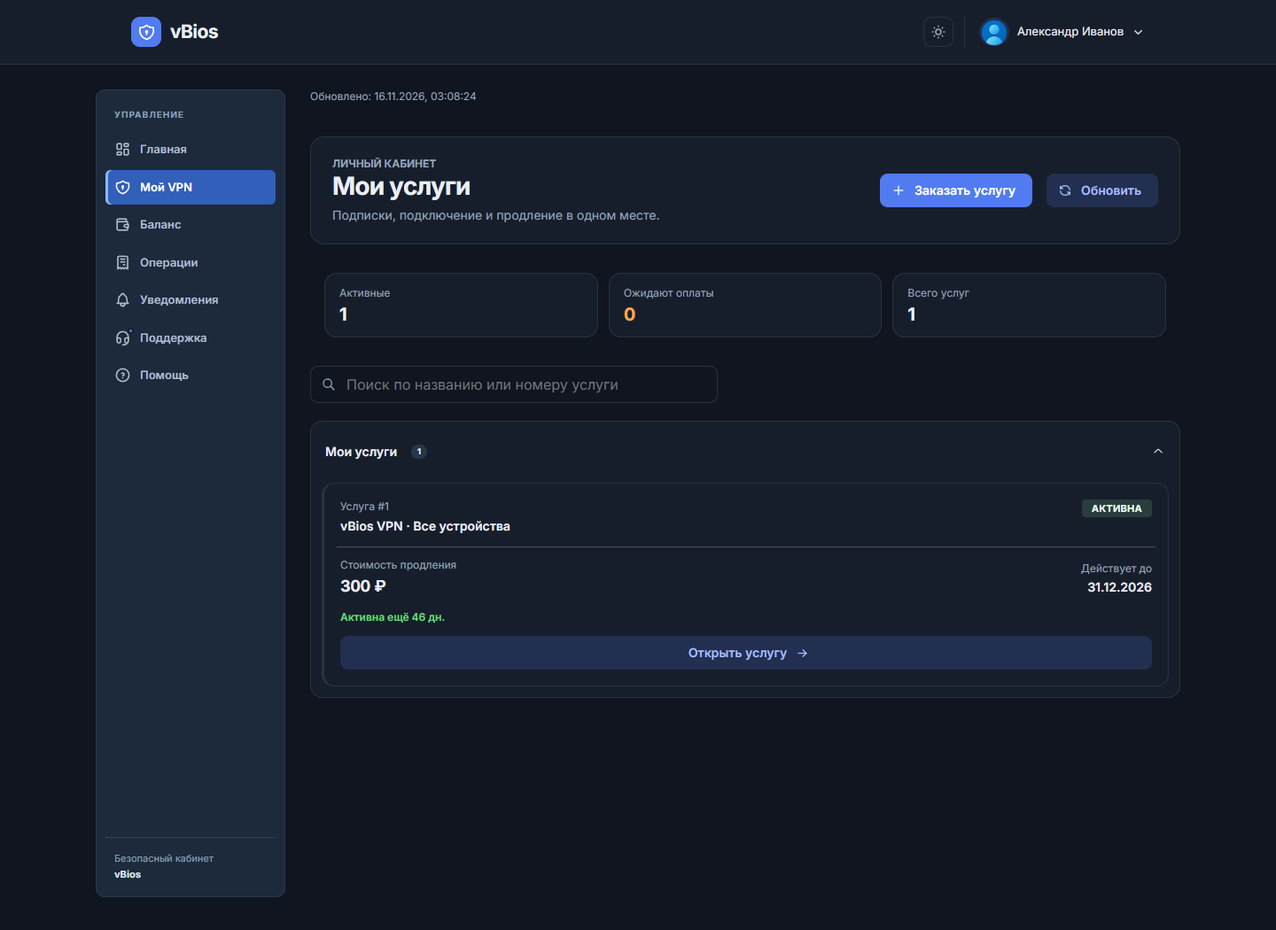
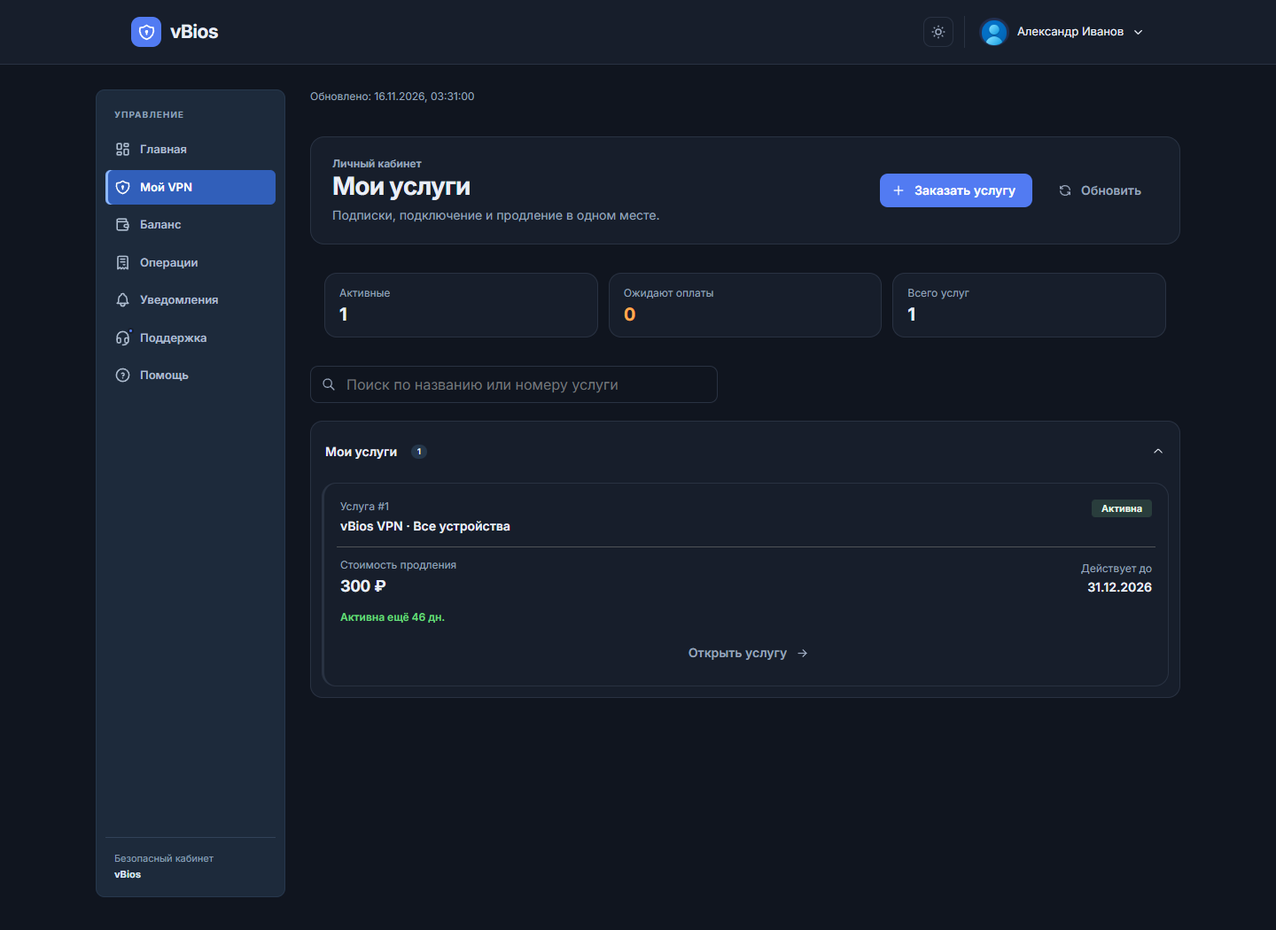
Улучшить визуальную систему кабинета

diff --git a/client/src/pages/Services.tsx b/client/src/pages/Services.tsx
@@ -1,7 +1,7 @@
 import DataLoadStatus from '../components/DataLoadStatus';
 import { useState, useEffect, useRef } from 'react';
 import { useNavigate, useParams, Link } from 'react-router-dom';
-import { Card, Timeline, Text, Stack, Group, Badge, Button, Divider, ActionIcon, Loader, Center, Paper, Title, Code, Tooltip, Accordion, Box, Pagination, Alert, TextInput, Skeleton } from '@mantine/core';
+import { Card, Timeline, Text, Stack, Group, Badge, Button, Divider, ActionIcon, Loader, Center, Paper, Title, Menu, Code, Tooltip, Accordion, Box, Pagination, Alert, TextInput, Skeleton } from '@mantine/core';
 import { IconQrcode, IconCopy, IconCheck, IconDownload, IconRefresh, IconTrash, IconPlus, IconPlayerStop, IconExchange, IconWallet, IconDeviceMobileCog, IconArrowLeft, IconArrowRight, IconSearch, IconCalendarTime, IconWifi, IconWifiOff } from '@tabler/icons-react';
 import { useDisclosure, useClipboard } from '@mantine/hooks';
 import { useTranslation } from 'react-i18next';
@@ -339,7 +339,6 @@ function ServiceDetail({ service, onDelete, onChangeTariff }: ServiceDetailProps
       setConnectionStatus('loading');
       setSubscriptionUrl(null);
       setStorageData(null);
-      setActiveTab('config');
       const offlineConnection = readOfflineConnection(service.user_service_id, category);
       if (!navigator.onLine && offlineConnection) {
         if (category === 'proxy') setSubscriptionUrl(offlineConnection.value); else setStorageData(offlineConnection.value);
@@ -410,11 +409,11 @@ function ServiceDetail({ service, onDelete, onChangeTariff }: ServiceDetailProps
         <section>
 
           <Stack gap="xs">
-            <Paper withBorder radius="lg" p="lg">
+            <Paper withBorder radius="lg" p="lg" className="service-primary-card">
               <Stack gap="md">
                 <Group justify="space-between" gap="md">
-                  <Text size="sm" c="dimmed">{t('services.status')}</Text>
-                  <Badge color={statusColor} variant="light" size="lg" radius="sm">{statusLabel}</Badge>
+                  <Text fw={650} size="xl">{service.service.name}</Text>
+                  <Badge color={statusColor} variant="light" size="sm" radius="sm">{statusLabel}</Badge>
                 </Group>
                 <Divider />
                 <Group justify="space-between" gap="md" align="center">
@@ -490,7 +489,7 @@ function ServiceDetail({ service, onDelete, onChangeTariff }: ServiceDetailProps
 
                 {isProxy && showProxySubscription && subscriptionUrl && (
                   <Paper withBorder p="sm" radius="sm" bg="var(--mantine-color-default-hover)">
-                    <Text size="xs" fw={700} tt="uppercase" c="dimmed" mb={6}>{t('services.subscriptionLink')}</Text>
+                    <Text size="xs" fw={700} tt="none" c="dimmed" mb={6}>{t('services.subscriptionLink')}</Text>
                     <Group wrap="nowrap">
                       <Code style={{ flex: 1, wordBreak: 'break-all', whiteSpace: 'normal' }}>{subscriptionUrl}</Code>
                       <Tooltip label={clipboard.copied ? t('common.copied') : t('common.copy')}>
@@ -555,44 +554,11 @@ function ServiceDetail({ service, onDelete, onChangeTariff }: ServiceDetailProps
 
       {isNotPaid && <Text size="sm" c="dimmed">{forecastLoading ? 'Рассчитываем доплату…' : forecastTotal !== null ? 'Доплата по услуге: ' + forecastTotal.toFixed(2) + ' ₽' : 'Доплата пока неизвестна. Проверьте расчёт перед оплатой.'}</Text>}
 
-      {canChange && (
-        <Button
-          color="blue"
-          variant="light"
-          leftSection={<IconExchange size={16} />}
-          onClick={() => onChangeTariff?.(service)}
-          mt="md"
-          fullWidth
-        >
-          {t('services.changeService')}
-        </Button>
-      )}
-
-      {canStop && (
-        <Button
-          color="orange"
-          variant="light"
-          leftSection={<IconPlayerStop size={16} />}
-          onClick={() => setConfirmStop(true)}
-          mt="md"
-          fullWidth
-        >
-          {t('services.stopService')}
-        </Button>
-      )}
-
-      {canDelete && (
-        <Button
-          color="red"
-          variant="light"
-          leftSection={<IconTrash size={16} />}
-          onClick={() => setConfirmDelete(true)}
-          mt="md"
-          fullWidth
-        >
-          {t('services.deleteService')}
-        </Button>
-      )}
+      {(canChange || canStop || canDelete) && <Menu position="bottom-end" withinPortal><Menu.Target><Button variant="default" style={{alignSelf:'flex-end'}}>Ещё ···</Button></Menu.Target><Menu.Dropdown>
+        {canChange && <Menu.Item leftSection={<IconExchange size={16}/>} onClick={() => onChangeTariff?.(service)}>{t('services.changeService')}</Menu.Item>}
+        {canStop && <Menu.Item leftSection={<IconPlayerStop size={16}/>} onClick={() => setConfirmStop(true)}>{t('services.stopService')}</Menu.Item>}
+        {canDelete && <Menu.Item color="red" leftSection={<IconTrash size={16}/>} onClick={() => setConfirmDelete(true)}>{t('services.deleteService')}</Menu.Item>}
+      </Menu.Dropdown></Menu>}
 
       <ConfirmModal
         opened={confirmStop}
@@ -899,16 +865,14 @@ export default function Services() {
 
   if (serviceId) {
     if (!detailService) return <Stack className="service-detail-page" gap="md"><Button component={Link} to="/services" variant="subtle" leftSection={<IconArrowLeft size={16} />}>Все услуги</Button><Paper withBorder p="xl" radius="lg"><Title order={3}>Услуга не найдена</Title><Text c="dimmed" mt="xs">Обновите список услуг и попробуйте ещё раз.</Text><Button mt="md" onClick={() => void fetchServices()}>Обновить список</Button></Paper></Stack>;
-    const statusLabel = t(`status.${detailService.status}`, detailService.status);
-    const expiry = getExpiryState(detailService.expire);
-    return <Stack gap="lg" className="service-detail-page"><Button component={Link} to="/services" variant="subtle" className="service-detail-page__back" leftSection={<IconArrowLeft size={16} />}>Все услуги</Button><Paper withBorder radius="lg" p="xl" className="service-detail-page__summary" style={{ borderRadius: 20, borderTop: '3px solid var(--mantine-primary-color-filled)', background: 'var(--mantine-color-body)' }}><Group justify="space-between" align="flex-start"><div><Text c="dimmed" size="xs">Услуга #{detailService.user_service_id}</Text><Title order={2} mt={6} style={{ fontSize: 'clamp(1rem, 2.5vw, 1.25rem)', lineHeight: 1.3, overflowWrap: 'anywhere' }}>{detailService.service.name}</Title><Text c="dimmed" size="sm" mt={6}>Подключение, срок действия и настройки подписки.</Text></div><Stack gap="xs" align="flex-end"><Badge color={statusColors[detailService.status] || 'gray'} size="lg" variant="light">{statusLabel}</Badge>{expiry.label && <Text className={`expiry-indicator expiry-indicator--${expiry.tone}`}><IconCalendarTime size={15} />{expiry.label}</Text>}</Stack></Group></Paper><ServiceDetail service={detailService} onDelete={() => { void fetchServices(); navigate('/services'); }} onChangeTariff={handleChangeTariff} /></Stack>;
+    return <Stack gap="md" className="service-detail-page"><Button component={Link} to="/services" variant="subtle" className="service-detail-page__back" leftSection={<IconArrowLeft size={16} />}>Все услуги</Button><ServiceDetail service={detailService} onDelete={() => { void fetchServices(); navigate('/services'); }} onChangeTariff={handleChangeTariff} /></Stack>;
   }
 
   return (
     <Stack gap="lg" className="services-overview">
       <DataLoadStatus showRefresh={false} loading={refreshing} error={loadError && "Не удалось обновить услуги"} updatedAt={updatedAt} onRetry={() => void fetchServices()} />
       <Paper withBorder radius="lg" className="services-header-card">
-        <div className="services-header-card__copy"><Text size="xs" c="dimmed" tt="uppercase" fw={700}>Личный кабинет</Text><Title className="page-header__title" order={2}>{t('services.title')}</Title><Text c="dimmed" size="sm" mt={6}>Подписки, подключение и продление в одном месте.</Text></div>
+        <div className="services-header-card__copy"><Text size="xs" c="dimmed" tt="none" fw={700}>Личный кабинет</Text><Title className="page-header__title" order={2}>{t('services.title')}</Title><Text c="dimmed" size="sm" mt={6}>Подписки, подключение и продление в одном месте.</Text></div>
         <Group className="services-header-card__actions">
           <Button
             leftSection={<IconPlus size={16} />}

diff --git a/client/src/components/HwidDevices.tsx b/client/src/components/HwidDevices.tsx
@@ -1,6 +1,6 @@
 import { useCallback, useEffect, useId, useState } from 'react';
-import { Alert, Badge, Button, Group, Loader, Paper, Stack, Text, Progress } from '@mantine/core';
-import { IconDeviceMobile, IconRefresh, IconTrash, IconChevronDown, IconChevronUp } from '@tabler/icons-react';
+import { Alert, Badge, Button, Group, Loader, Paper, Stack, Text, Progress, Collapse, Skeleton } from '@mantine/core';
+import { IconDeviceMobile, IconDeviceLaptop, IconRefresh, IconTrash, IconChevronDown, IconChevronUp } from '@tabler/icons-react';
 import { notifications } from '@mantine/notifications';
 import { api, userApi } from '../api/client';
 import ConfirmModal from './ConfirmModal';
@@ -9,6 +9,7 @@ import './HwidDevices.css';
 type Device = { hwid: string; deviceModel?: string; platform?: string; osVersion?: string; userAgent?: string; lastConnectedAt?: string; lastSeenAt?: string; createdAt?: string };
 type Stats = { used_bytes?: number | null; lifetime_bytes?: number | null; limit_bytes?: number | null; online_at?: string | null; first_connected_at?: string | null; last_subscription_at?: string | null };
 const when = (value?: string | null) => value && Number.isFinite(Date.parse(value)) ? new Date(value).toLocaleString() : 'Нет данных';
+const deviceIcon = (platform?: string) => /windows|mac|linux|desktop/i.test(platform || '') ? <IconDeviceLaptop size={16} /> : <IconDeviceMobile size={16} />;
 const bytes = (value?: number | null) => value != null && Number.isFinite(Number(value)) ? `${(Number(value) / 1073741824).toLocaleString('ru-RU', { maximumFractionDigits: 2 })} ГБ` : 'Нет данных';
 function payload(body: unknown): Record<string, unknown> {
   let value: any = body;
@@ -81,9 +82,10 @@ export default function HwidDevices({ serviceId }: { serviceId: number }) {
     finally { setDeleting(false); }
   };
   return <Paper withBorder p="md" radius="md" className="hwid-panel">
-    <Group className="hwid-panel-header" justify="space-between" wrap="wrap" gap="sm"><div><Group gap="xs"><IconDeviceMobile size={22} /><Text component="h2" className="hwid-panel-title" fw={650}>Центр устройств</Text></Group><Text size="sm" c="dimmed" mt={6}>Просматривайте подключённые устройства и расход трафика. Чтобы освободить место для нового устройства, сбросьте его HWID-привязку.</Text></div><Group gap="xs"><Button size="xs" variant="light" aria-expanded={expanded} aria-controls={expanded ? detailsId : undefined} onClick={() => setExpanded(value => !value)} leftSection={expanded ? <IconChevronUp size={15} /> : <IconChevronDown size={15} />}>{expanded ? 'Свернуть' : 'Раскрыть'}</Button><Button size="xs" variant="subtle" loading={loading || statsLoading} disabled={deleting} onClick={load} leftSection={<IconRefresh size={15} />}>Обновить</Button></Group></Group>
-    {!expanded ? <Group mt="md" gap="xs"><Badge variant="light">{loading ? "Устройства загружаются…" : error ? "Не удалось обновить устройства" : `Подключено: ${devices.length}${limit !== null && limit > 0 ? ` · лимит ${limit}` : ""}`}</Badge><Text size="xs" c="dimmed">Нажмите «Раскрыть», чтобы посмотреть устройства и статистику.</Text></Group> : <div id={detailsId}>
-    {statsLoading && !stats ? <Text mt="sm" size="xs" c="dimmed">Загружаем статистику…</Text> : statsError && !stats ? <Alert mt="sm" color="orange">Статистика Remnawave недоступна. Список устройств загружается отдельно.</Alert> : stats && <>
+    <Group className="hwid-panel-header" justify="space-between" wrap="wrap" gap="sm"><div><Group gap="xs"><IconDeviceMobile size={22} /><Text component="h2" className="hwid-panel-title" fw={650}>Центр устройств</Text></Group><Text size="sm" c="dimmed" mt={6}>Устройства подписки и расход трафика.</Text></div><Group gap="xs"><Button size="xs" variant="light" aria-expanded={expanded} aria-controls={detailsId} onClick={() => setExpanded(value => !value)} leftSection={expanded ? <IconChevronUp size={15} /> : <IconChevronDown size={15} />}>{expanded ? 'Свернуть' : 'Раскрыть'}</Button><Button size="xs" variant="subtle" loading={loading || statsLoading} disabled={deleting} onClick={load} leftSection={<IconRefresh size={15} />}>Обновить</Button></Group></Group>
+    {!expanded ? <Group mt="md" gap="sm" wrap="wrap"><Badge variant="light">{loading ? 'Загружаем устройства…' : error ? 'Не удалось обновить' : `${devices.length} из ${limit && limit > 0 ? limit : '∞'} устройств`}</Badge><Group gap={4}>{devices.slice(0, 4).map((device, index) => <span className="hwid-platform-icon" title={device.platform || `Устройство ${index + 1}`} key={device.hwid}>{deviceIcon(device.platform)}</span>)}</Group><Text size="xs" c="dimmed">Раскройте, чтобы управлять устройствами</Text></Group> : null}
+    <Collapse in={expanded}><div id={detailsId}>
+    {statsLoading && !stats ? <Stack gap="sm" mt="md" aria-label="Загрузка статистики"><Skeleton height={60} radius="md"/><Skeleton height={16} width="65%"/></Stack> : statsError && !stats ? <Alert mt="sm" color="orange">Статистика Remnawave недоступна. Список устройств загружается отдельно.</Alert> : stats && <>
       <div className="hwid-stats">
         <div><Text size="xs" c="dimmed">Трафик за текущий период</Text><Text fw={600}>{bytes(stats.used_bytes)}</Text></div>
         <div><Text size="xs" c="dimmed">Лимит трафика</Text><Text fw={600}>{stats.limit_bytes === 0 ? 'Без ограничений' : bytes(stats.limit_bytes)}</Text></div>
@@ -105,7 +107,7 @@ export default function HwidDevices({ serviceId }: { serviceId: number }) {
         <Button className="hwid-device-remove" color="red" variant="light" size="xs" disabled={deleting} onClick={() => setSelected(device)} leftSection={<IconTrash size={15} />}>Сбросить HWID</Button>
       </div>)}
     </Stack>
-    </div>}
+    </div></Collapse>
     <ConfirmModal opened={!!selected} onClose={() => { if (!deleting) setSelected(null); }} onConfirm={remove} title="Сбросить привязку устройства?" message={`Устройство «${selected?.deviceModel || selected?.platform || 'Устройство'}» будет удалено из списка. Остальные устройства останутся. Это не блокировка: при новом подключении устройство может привязаться снова.`} confirmLabel="Сбросить HWID" confirmColor="red" loading={deleting} />
   </Paper>;
 }

diff --git a/client/src/components/VpnCabinet.css b/client/src/components/VpnCabinet.css
@@ -91,3 +91,53 @@
 @media(prefers-reduced-motion:reduce){
   .vpn-cabinet *, .vpn-cabinet *::before, .vpn-cabinet *::after { animation-duration:.01ms!important; animation-iteration-count:1!important; transition-duration:.01ms!important; scroll-behavior:auto!important; }
 }
+/* Visual system v2: one surface, one radius, one hierarchy. */
+:root {
+  --cabinet-card-radius: 16px;
+  --cabinet-card-padding: 20px;
+  --cabinet-heading: clamp(1.05rem, 1.8vw, 1.35rem);
+  --cabinet-muted: #8f9bb0;
+}
+.vpn-cabinet :is(.service-overview-card, .service-detail-page__summary, .service-connection-card, .hwid-panel, .profile-card, .vpn-finance-panel, .ticket-list-panel, .ticket-chat-panel) {
+  border-radius: var(--cabinet-card-radius) !important;
+  box-shadow: none !important;
+}
+.vpn-cabinet :is(.service-overview-card, .service-detail-page__summary, .service-connection-card, .hwid-panel, .profile-card, .vpn-finance-panel) { padding: var(--cabinet-card-padding); }
+.vpn-cabinet :is(.service-overview-card, .service-detail-page__summary) .mantine-Title-root,
+.vpn-cabinet .hwid-panel-title { font-size: var(--cabinet-heading); letter-spacing: -.02em; }
+.vpn-cabinet .service-overview-card { transition: border-color .18s ease, background-color .18s ease, transform .18s ease; }
+.vpn-cabinet .service-overview-card:hover { transform: translateY(-1px); }
+.vpn-cabinet .service-detail-page__summary { border-top: 2px solid var(--ui-accent) !important; }
+.vpn-cabinet .service-technical-details { border-color: var(--ui-border); background: transparent; transition: background-color .2s ease; }
+.vpn-cabinet .service-technical-details[open] { background: var(--ui-surface-soft); }
+.vpn-cabinet .service-technical-details > summary { color: var(--ui-text); font-size: .875rem; }
+.vpn-cabinet .service-technical-details > summary::marker { color: var(--ui-muted); }
+.vpn-cabinet .hwid-panel { animation: cabinet-card-in .25s ease both; }
+.vpn-cabinet .hwid-panel > .hwid-panel-header { border-bottom: 0; padding-bottom: 10px; }
+.vpn-cabinet .hwid-panel > .hwid-panel-header > div > .mantine-Text-root:last-child { color: var(--cabinet-muted); max-width: 650px; line-height: 1.45; }
+.vpn-cabinet .hwid-panel .hwid-stats { border: 1px solid var(--ui-border); background: var(--ui-surface-soft); }
+.vpn-cabinet .hwid-panel .hwid-device { border-color: var(--ui-border); transition: border-color .18s ease, transform .18s ease; }
+.vpn-cabinet .hwid-panel .hwid-device:hover { border-color: var(--ui-border-strong); transform: translateY(-1px); }
+.vpn-cabinet .hwid-panel .hwid-device-icon { color: var(--ui-muted); }
+.vpn-cabinet .hwid-panel .hwid-device-remove { color: var(--ui-muted); background: var(--ui-surface-soft); }
+.vpn-cabinet .hwid-panel .hwid-device-remove:hover { color: var(--mantine-color-red-6); }
+.vpn-cabinet .ticket-conversation__header { border-bottom: 1px solid var(--ui-border); padding-bottom: 16px; }
+.vpn-cabinet .ticket-operator-row { border: 1px solid var(--ui-border); background: var(--ui-surface-soft); color: var(--ui-text); }
+.vpn-cabinet .ticket-operator-row .mantine-Button-root { background: var(--ui-surface); color: var(--ui-text); border: 1px solid var(--ui-border); }
+.vpn-cabinet .ticket-message { animation: cabinet-message-in .2s ease both; }
+.vpn-cabinet .ticket-message--user { background: color-mix(in srgb, var(--ui-accent) 12%, var(--ui-surface)) !important; border-color: color-mix(in srgb, var(--ui-accent) 25%, var(--ui-border)) !important; }
+.vpn-cabinet .ticket-message--admin { background: var(--ui-surface) !important; }
+.vpn-cabinet .ticket-reply-box { background: var(--ui-surface); border-radius: 0 0 var(--cabinet-card-radius) var(--cabinet-card-radius); }
+.vpn-cabinet .ticket-reply-box .mantine-Textarea-input { background: var(--ui-surface-soft); border-color: var(--ui-border); }
+.vpn-cabinet .ticket-pending-file { background: var(--ui-surface-soft); border-color: var(--ui-border); }
+.vpn-cabinet .hwid-panel .mantine-Badge-root[data-variant="light"] { background: var(--ui-surface-soft); color: var(--ui-text); border: 1px solid var(--ui-border); }
+.vpn-cabinet .mantine-Button-root[data-variant="light"], .vpn-cabinet .mantine-Button-root[data-variant="subtle"] { background: transparent; color: var(--ui-muted); }
+.vpn-cabinet .mantine-Button-root[data-variant="light"]:hover, .vpn-cabinet .mantine-Button-root[data-variant="subtle"]:hover { background: var(--ui-surface-soft); color: var(--ui-text); }
+@keyframes cabinet-card-in { from { opacity: .65; transform: translateY(4px); } to { opacity: 1; transform: translateY(0); } }
+@keyframes cabinet-message-in { from { opacity: 0; transform: translateY(4px); } to { opacity: 1; transform: translateY(0); } }
+@media (prefers-reduced-motion: reduce) { .vpn-cabinet *, .vpn-cabinet *::before { animation: none !important; transition: none !important; } }
+@media (max-width: 600px) {
+  .vpn-cabinet :is(.service-overview-card, .service-detail-page__summary, .service-connection-card, .hwid-panel, .profile-card, .vpn-finance-panel) { padding: 16px !important; }
+  .vpn-cabinet .service-detail-page__summary .mantine-Title-root { font-size: 1.25rem !important; }
+  .vpn-cabinet .hwid-panel > .hwid-panel-header > .mantine-Group-root { width: 100%; }
+}

diff --git a/client/src/components/HwidDevices.css b/client/src/components/HwidDevices.css
@@ -23,3 +23,17 @@
 .hwid-details{margin-top:8px}.hwid-details summary{cursor:pointer;font-size:12px;color:var(--mantine-primary-color-filled);padding:6px 0}.hwid-details summary:focus-visible{outline:2px solid var(--mantine-primary-color-filled)}
 .hwid-panel-header > .mantine-Group-root { flex: 0 0 auto; min-width: 0; }
 .service-detail-page .hwid-panel { margin-top: 16px; margin-bottom: 16px; }
+.hwid-platform-icon { display:inline-flex; align-items:center; justify-content:center; width:28px; height:28px; border:1px solid var(--ui-border); border-radius:8px; color:var(--ui-muted); background:var(--ui-surface-soft); }
+.hwid-panel .hwid-panel-header .mantine-Button-root[data-variant="light"] { color:var(--ui-text); border:1px solid var(--ui-border); }
+.vpn-cabinet .mantine-Badge-label { text-transform:none; letter-spacing:0; font-weight:600; }
+.vpn-cabinet .hwid-panel-header > .mantine-Group-root { flex:0 0 auto; }
+.vpn-cabinet .hwid-panel-header > .mantine-Group-root .mantine-Button-root { width:auto; }
+.vpn-cabinet .hwid-panel-header { gap:12px; }
+.vpn-cabinet .hwid-panel .hwid-panel-header > div > .mantine-Text-root:last-child { font-size:13px; }
+@media(max-width:600px){
+ .vpn-cabinet .hwid-panel-header > .mantine-Group-root { width:auto; display:flex; flex-direction:row; flex-wrap:nowrap; }
+ .vpn-cabinet .hwid-panel-header .mantine-Button-root { padding-inline:12px; min-height:40px; }
+ .vpn-cabinet .hwid-panel-header { gap:8px; }
+ .vpn-cabinet .hwid-panel-header > div { min-width:0; }
+ .vpn-cabinet .hwid-panel > .mantine-Group-root:nth-child(2) > .mantine-Text-root:last-child { display:none; }
+}

diff --git a/client/src/pages/Tickets.css b/client/src/pages/Tickets.css
@@ -122,3 +122,19 @@
   .ticket-create__actions > button:last-child { flex: 1; }
   .ticket-pending-files { grid-template-columns:1fr; }
 }
+/* A quieter, more spacious conversation. */
+.vpn-cabinet .ticket-conversation .mantine-ScrollArea-root { background:transparent; padding:16px 4px; }
+.vpn-cabinet .ticket-message { max-width:84%!important; padding:14px 16px!important; }
+.vpn-cabinet .ticket-operator-row { padding:8px 12px; }
+.vpn-cabinet .ticket-operator-row > .mantine-Text-root { font-weight:600; font-size:13px; }
+.vpn-cabinet .ticket-conversation__header .mantine-Button-root { color:var(--ui-muted); }
+.vpn-cabinet .ticket-media-thumb { max-width:240px; }
+.vpn-cabinet .ticket-media-thumb img { max-height:180px; object-fit:cover; }
+.vpn-cabinet .ticket-reply-box { flex-shrink:0; margin-top:auto; }
+@media(max-width:768px){
+ .vpn-cabinet .tickets-page .page-header__description { display:none; }
+ .vpn-cabinet .ticket-message { max-width:94%!important; }
+ .vpn-cabinet .ticket-operator-row { flex-direction:row; align-items:center!important; }
+ .vpn-cabinet .ticket-operator-row .mantine-Button-root { width:auto; font-size:12px; }
+ .vpn-cabinet .ticket-operator-row .mantine-Text-root { width:auto; }
+}

diff --git a/client/src/pages/Tickets.tsx b/client/src/pages/Tickets.tsx
@@ -830,7 +830,7 @@ export default function Tickets() {
 
         {!ticketIsClosed(selectedTicket.status) && <Group justify="space-between" align="center" gap="sm" className="ticket-operator-row">
           <Text size="sm" c="dimmed" style={{ flex: 1 }}>
-            {selectedTicket.responder === 'ai' ? 'Вам отвечает ИИ-помощник. При необходимости подключите сотрудника поддержки.' : 'Обращение у оператора. ИИ отключён, ожидайте ответа сотрудника.'}
+            {selectedTicket.responder === 'ai' ? 'Отвечает ИИ' : 'Ожидаем оператора'}
           </Text>
           {(selectedTicket.responder !== 'human' || selectedTicket.telegram_error) && <Button
             size="sm" variant="light" fullWidth={isMobile} leftSection={<IconMessageCircle size={16} />}

diff --git a/client/src/pages/Services.css b/client/src/pages/Services.css
@@ -67,3 +67,9 @@
   .service-technical-details { padding: 12px; }
   .service-connection-card { padding: 12px; }
 }
+.service-primary-card > .mantine-Stack-root { display:grid; grid-template-columns:1fr 1fr; gap:16px; }
+.service-primary-card > .mantine-Stack-root > .mantine-Group-root:first-child { grid-column:1/-1; }
+.service-primary-card > .mantine-Stack-root > .mantine-Divider-root { display:none; }
+.service-primary-card > .mantine-Stack-root > .mantine-Button-root { grid-column:1/-1; }
+.service-primary-card > .mantine-Stack-root > .mantine-Group-root { align-items:flex-start; }
+@media(max-width:600px){.service-primary-card > .mantine-Stack-root > .mantine-Group-root:not(:first-child){flex-direction:column;gap:6px}.service-primary-card .mantine-Text-root{overflow-wrap:anywhere}}

diff --git a/client/src/theme.ts b/client/src/theme.ts
@@ -11,6 +11,6 @@ export const theme = createTheme({
   components: {
     Card: { defaultProps: { radius: 'md', withBorder: true } },
     Button: { defaultProps: { radius: 'md' } },
-    Modal: { defaultProps: { lockScroll: false, radius: 'md' } },
+    Modal: { defaultProps: { lockScroll: false, radius: 'lg', transitionProps: { transition: 'fade-up', duration: 170 } } },
   },
 });

diff --git a/README.md b/README.md
@@ -467,3 +467,15 @@ docker compose exec api wget -qO- http://127.0.0.1/shm/healthcheck.cgi
 ![Поддержка на мобильном экране](docs/screenshots/mobile-tickets.png)
 
 Интерфейс проверен на ширине 390 px: нижняя навигация, длинные названия услуг, карточки и основные действия остаются доступными.
+
+## Обновлённая визуальная версия
+
+В новой версии выровнены радиусы и отступы карточек, сокращены вторичные подписи, основной сценарий услуги вынесен в одну заметную кнопку, а дополнительные действия убраны в меню **«Ещё»**. Центр устройств по умолчанию свёрнут и показывает только краткий счётчик, платформы и кнопку раскрытия. В поддержке статус ответа и поле сообщения остаются видимыми без лишних вложенных панелей.
+
+![Карточка услуги и центр устройств — обновлённый вид](docs/screenshots/service-device-v2.png)
+
+![Поддержка — обновлённый вид](docs/screenshots/ticket-conversation-v2.png)
+
+![Мобильная карточка услуги — обновлённый вид](docs/screenshots/mobile-service-v2.png)
+
+![Главный экран — обновлённый вид](docs/screenshots/dashboard-v2.png)
